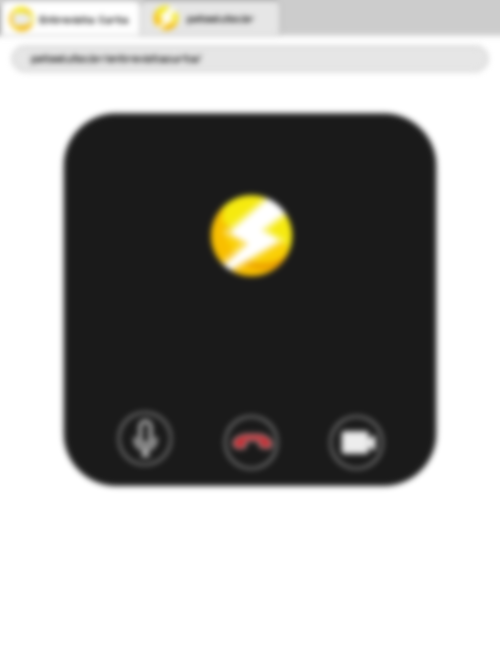
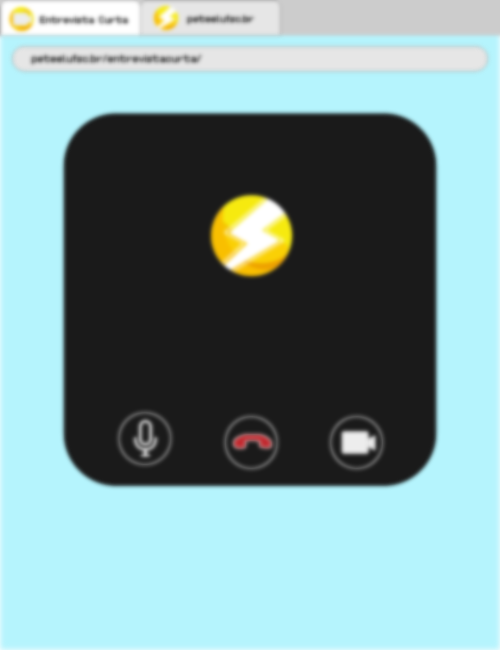
arrumado fundos

diff --git a/primeirafaseteste.py b/primeirafaseteste.py
@@ -756,7 +756,7 @@ def main():
                 
 
             if iconef4.rect.x >= 0 and iconef4.rect.x <= 500:
-                fundoinicial.image = pygame.image.load("Imagens/Quarta Fase/fundo 4 desfocado.png")
+                fundoinicial.image = pygame.image.load("Imagens/Quarta Fase/Fundo4desfocado.png")
                 pfinal4.rect.left = 800
                 pfinal4.rect.top = -2450
                 iconef4.rect.x = 800
@@ -922,7 +922,6 @@ def main():
         all_sprites.draw(tela)
         agradecimentosgrupo.draw(tela)
         botoesinicio.draw(tela)
-        iconef4grupo.draw(tela)
     
 
         #Updates
